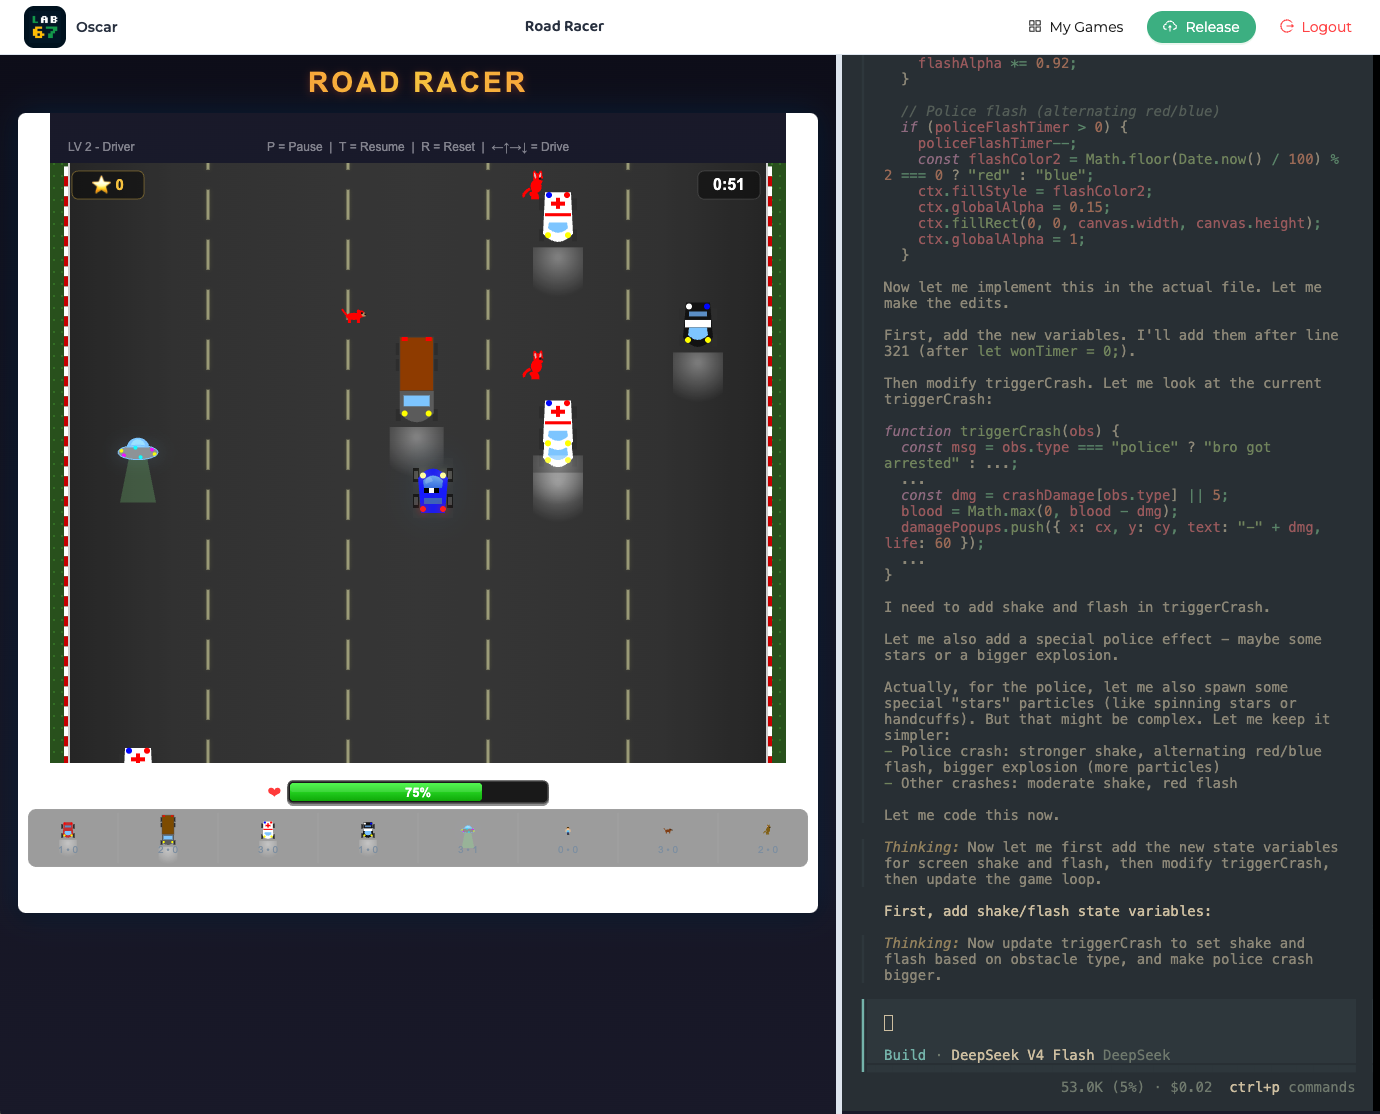
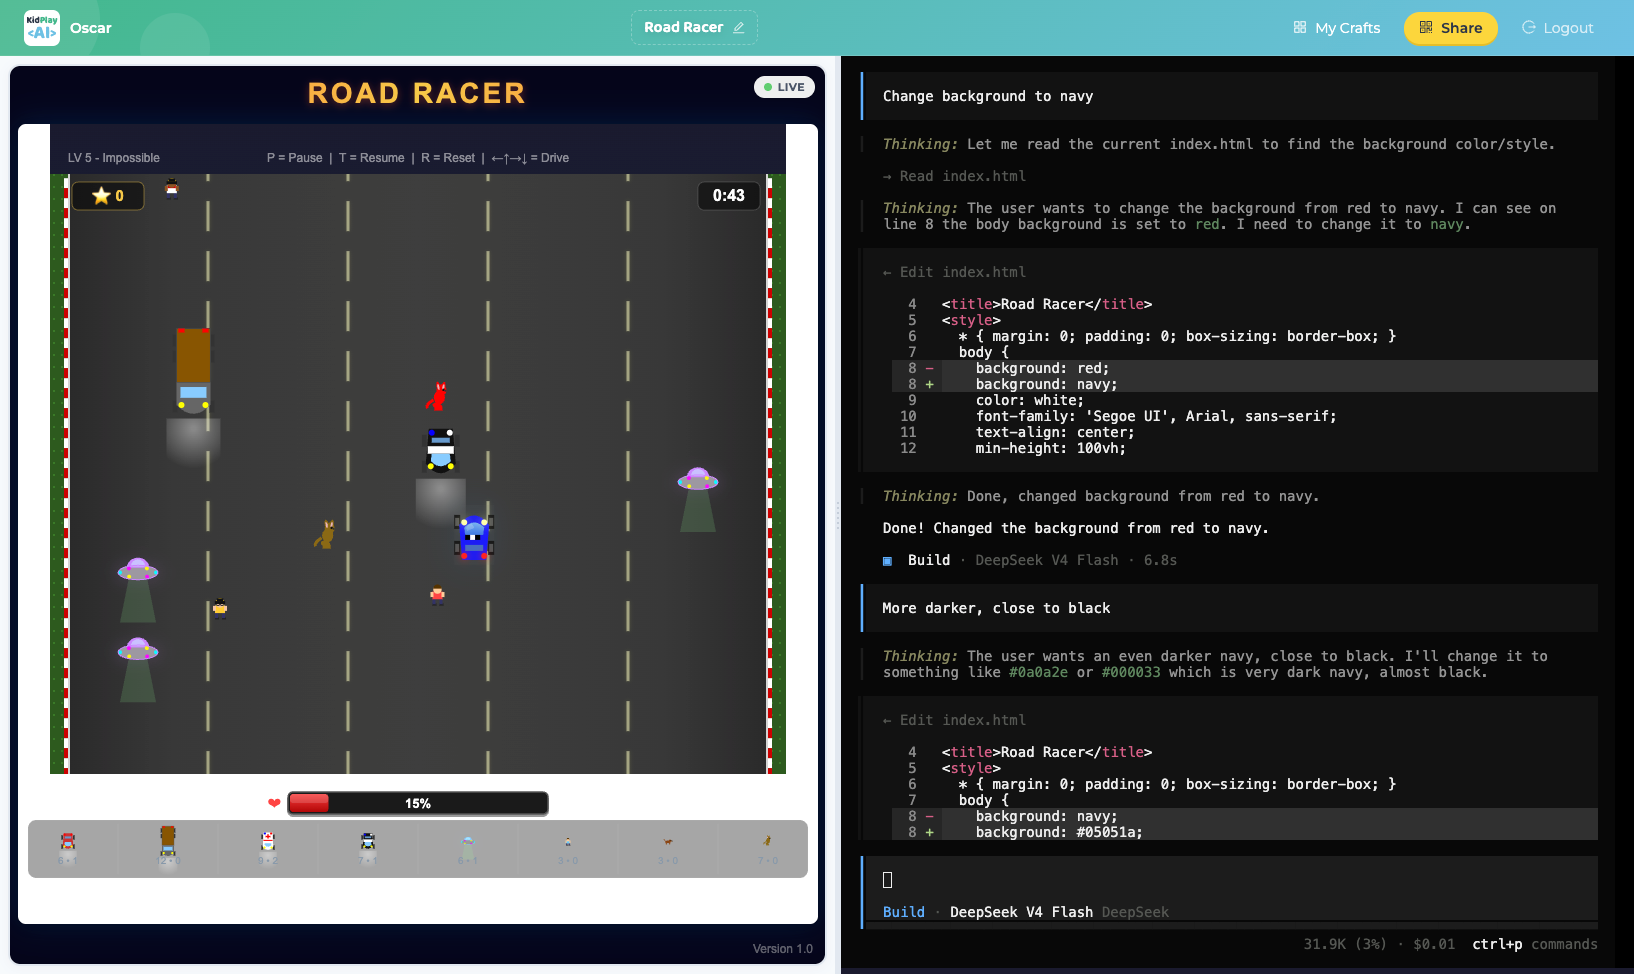
Update screenshot image on home page

diff --git a/apps/kpai/src/portal/src/pages/HomePage.jsx b/apps/kpai/src/portal/src/pages/HomePage.jsx
@@ -98,13 +98,17 @@ function NavBar({ onStart }) {
         display: "flex",
         alignItems: "center",
         justifyContent: "space-between",
-        padding: "16px 48px",
-        background: "linear-gradient(to right, rgba(255,255,255,0.9) 0%, rgba(255,255,255,0.85) 220px, rgba(255,255,255,0) 50%)",
-        position: "absolute",
+        gap: 12,
+        padding: "14px clamp(16px, 4vw, 48px)",
+        position: "sticky",
         top: 0,
-        left: 0,
-        right: 0,
         zIndex: 100,
+        backgroundImage: `radial-gradient(circle at 1px 1px, rgba(67,184,140,0.28) 1px, transparent 0), linear-gradient(135deg, rgba(232,248,240,0.7) 0%, rgba(232,244,250,0.7) 100%)`,
+        backgroundSize: "22px 22px, auto",
+        backdropFilter: "blur(10px)",
+        WebkitBackdropFilter: "blur(10px)",
+        borderBottom: "1px solid rgba(226,232,240,0.6)",
+        boxShadow: shadows.cardSubtle,
       }}
     >
       <Logo size={36} />
@@ -114,14 +118,13 @@ function NavBar({ onStart }) {
         onClick={onStart}
         style={{
           borderRadius: 24,
-          paddingInline: 28,
+          paddingInline: 20,
           fontWeight: 600,
           height: 44,
-          background: "rgba(255,255,255,0.15)",
-          color: colors.onDark,
-          border: "1.5px solid rgba(255,255,255,0.4)",
-          boxShadow: "none",
-          backdropFilter: "blur(8px)",
+          background: colors.surface,
+          color: colors.primary,
+          border: `1.5px solid ${colors.primary}`,
+          boxShadow: shadows.cardSubtle,
         }}
       >
         Student Login
@@ -244,7 +247,7 @@ export function HomePage() {
       <div
         style={{
           background: gradients.hero,
-          padding: "150px 24px 180px",
+          padding: "clamp(60px, 12vw, 90px) 20px 180px",
           textAlign: "center",
           position: "relative",
           overflow: "hidden",
@@ -289,7 +292,7 @@ export function HomePage() {
           <Title
             style={{
               fontFamily: fonts.heading,
-              fontSize: 56,
+              fontSize: "clamp(34px, 8vw, 56px)",
               color: colors.onDark,
               marginBottom: 16,
               lineHeight: 1.2,
@@ -300,7 +303,7 @@ export function HomePage() {
           </Title>
           <Paragraph
             style={{
-              fontSize: 20,
+              fontSize: "clamp(16px, 2.4vw, 20px)",
               color: colors.onDarkSecondary,
               marginBottom: 44,
               maxWidth: 540,
